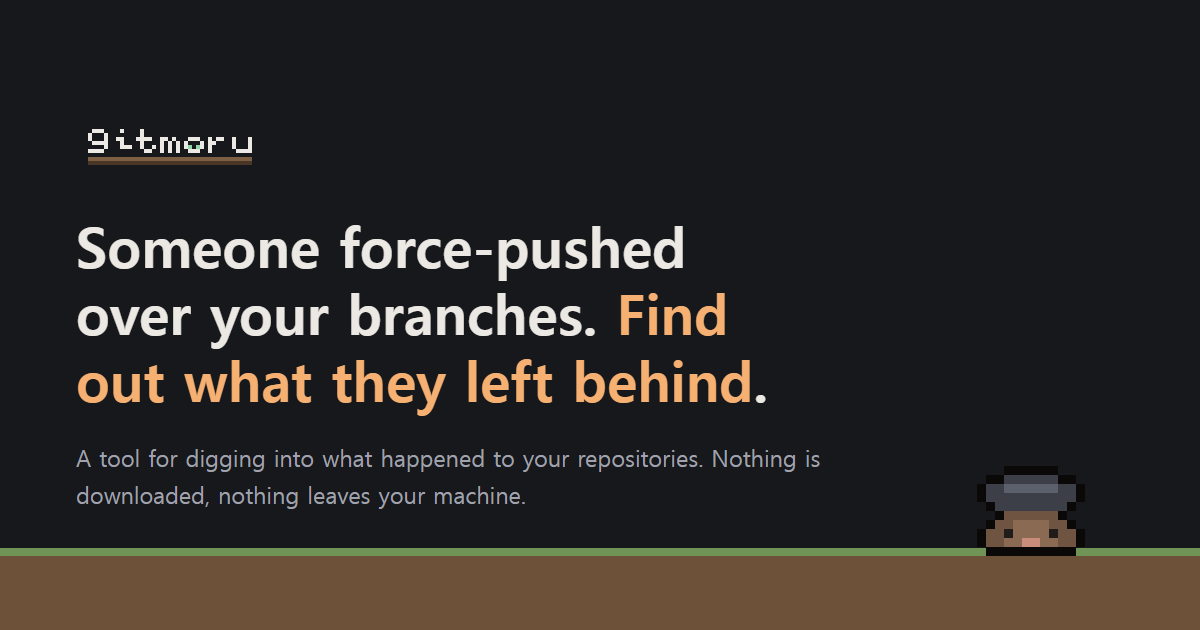
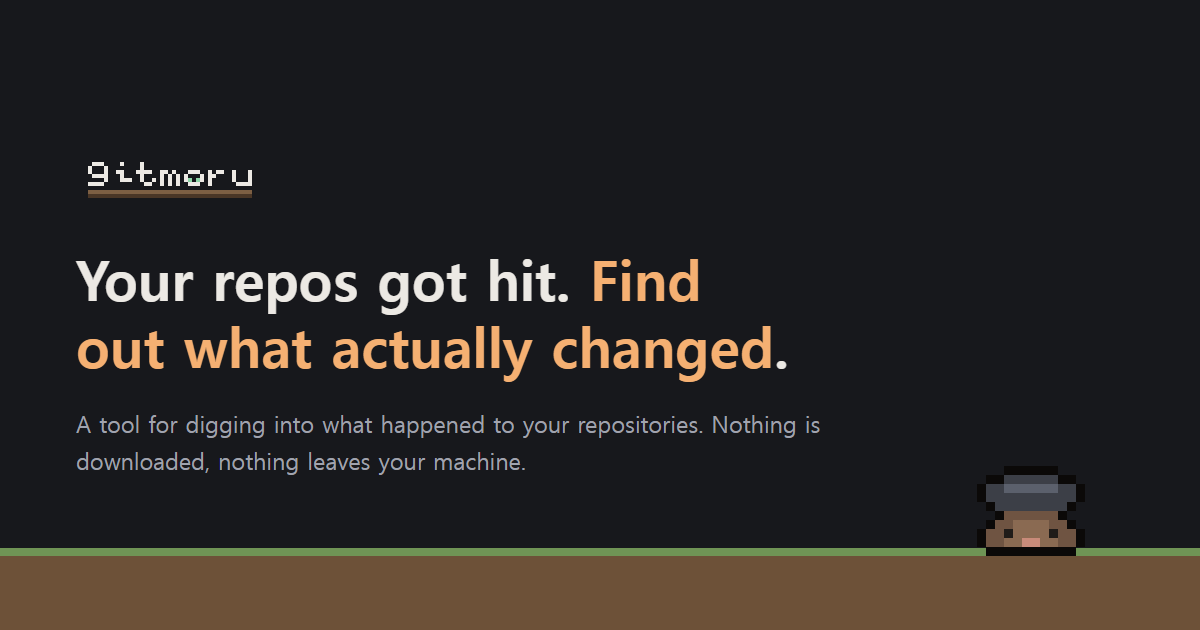
fix: stop the hero saying the same thing twice in en and ja

Changed region(s): [[0.0617, 0.3619, 0.6783, 0.6937], [0.0617, 0.7238, 0.6783, 0.8143], [0.0617, 0.2111, 0.2158, 0.3317]]

diff --git a/src/i18n/ui.ts b/src/i18n/ui.ts
@@ -350,8 +350,8 @@ export const en: Dict = {
   home: {
     title: 'Find out what changed when your repos got hit',
     desc: 'Finds the files that changed in a repository during a time window, branch by branch. Nothing is downloaded, nothing leaves your machine.',
-    h1: [{ t: 'Someone force-pushed over your branches. ' }, { t: 'Find out what they left behind', hl: true }, { t: '.' }],
-    lede: 'The thing you open at 3am, after someone force-pushed over every branch you had. Nothing gets downloaded. Nothing leaves your machine.',
+    h1: [{ t: 'Your repos got hit. ' }, { t: 'Find out what actually changed', hl: true }, { t: '.' }],
+    lede: 'It reads the events API to find every file that changed in a time window, branch by branch. Nothing is cloned, and nothing leaves your machine.',
     outputLabel: 'Here is what it tells you',
     output1: 'Nothing stood out.',
     output2: 'Still, 14 changed files are worth a look.',
@@ -366,8 +366,8 @@ export const en: Dict = {
       ['Can it be undone', 'Whether the commit from just before the attack is still reachable. You press the button, not us.'],
     ],
 
-    forkNow: 'It just happened',
-    forkLook: 'Just looking',
+    forkNow: 'We just got hit',
+    forkLook: 'Just reading',
 
     whenTitle: 'When you would reach for it',
     whenLede: 'All of these are situations we have actually been in.',
@@ -646,8 +646,8 @@ export const ja: Dict = {
   home: {
     title: 'リポジトリがやられたとき、何が変わったのかを掘ります',
     desc: '指定した期間にリポジトリで変わったファイルを、ブランチごとに探して見せます。何もダウンロードせず、このパソコンの外へは何も送りません。',
-    h1: [{ t: '深夜、ブランチを force push で潰されたときに。' }, { t: '何が変わったのかを掘ります', hl: true }],
-    lede: '深夜、誰かがブランチを丸ごと上書きしたときに開く道具です。何もダウンロードしませんし、このパソコンの外へは何も送りません。',
+    h1: [{ t: 'リポジトリがやられたとき、' }, { t: '何が変わったのかを掘ります', hl: true }],
+    lede: 'Events API を読んで、指定した期間に変わったファイルをブランチごとに洗い出します。clone はしませんし、このパソコンの外へは何も送りません。',
     outputLabel: '掘り終わるとこう伝えます',
     output1: '目立つものは 0 件でした。',
     output2: 'それでも、変更された 14 件は一度見てください。',
@@ -662,8 +662,8 @@ export const ja: Dict = {
       ['戻せるか', '攻撃直前のコミットがまだ残っているかを確認します。実行するのは人です。'],
     ],
 
-    forkNow: '今、事故が起きています',
-    forkLook: 'まず知りたい',
+    forkNow: '今やられました',
+    forkLook: '先に中身を見たい',
 
     whenTitle: 'こんなときに使います',
     whenLede: 'どれも実際にあった状況です。',
